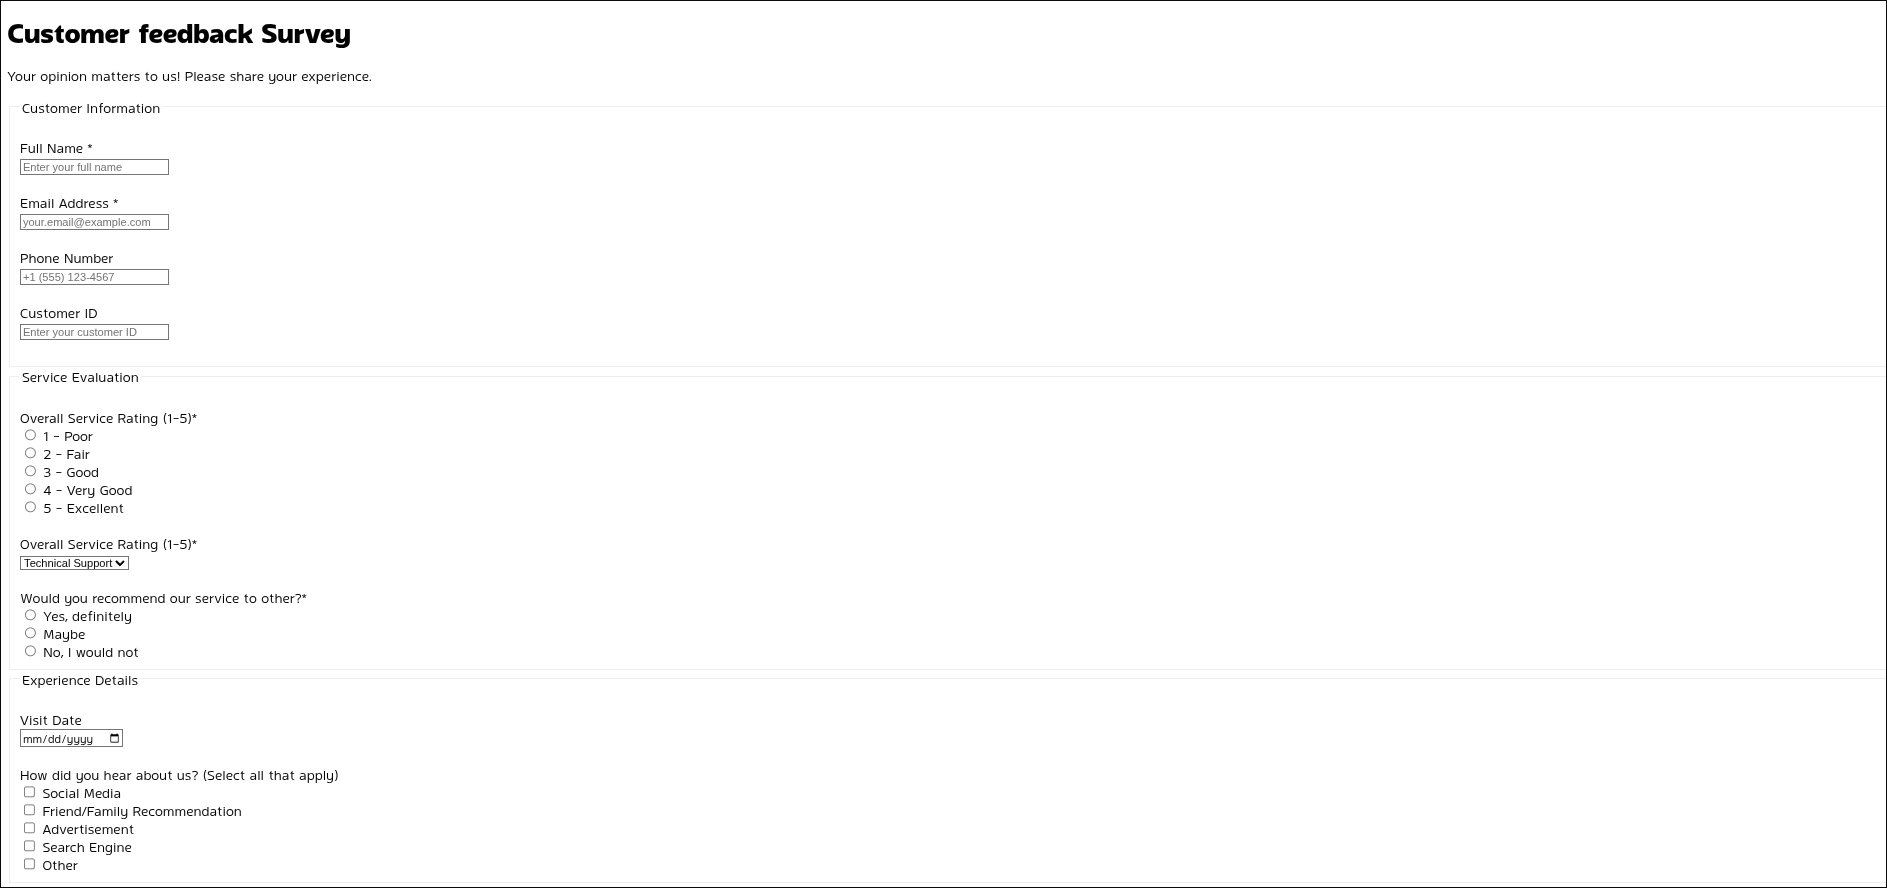
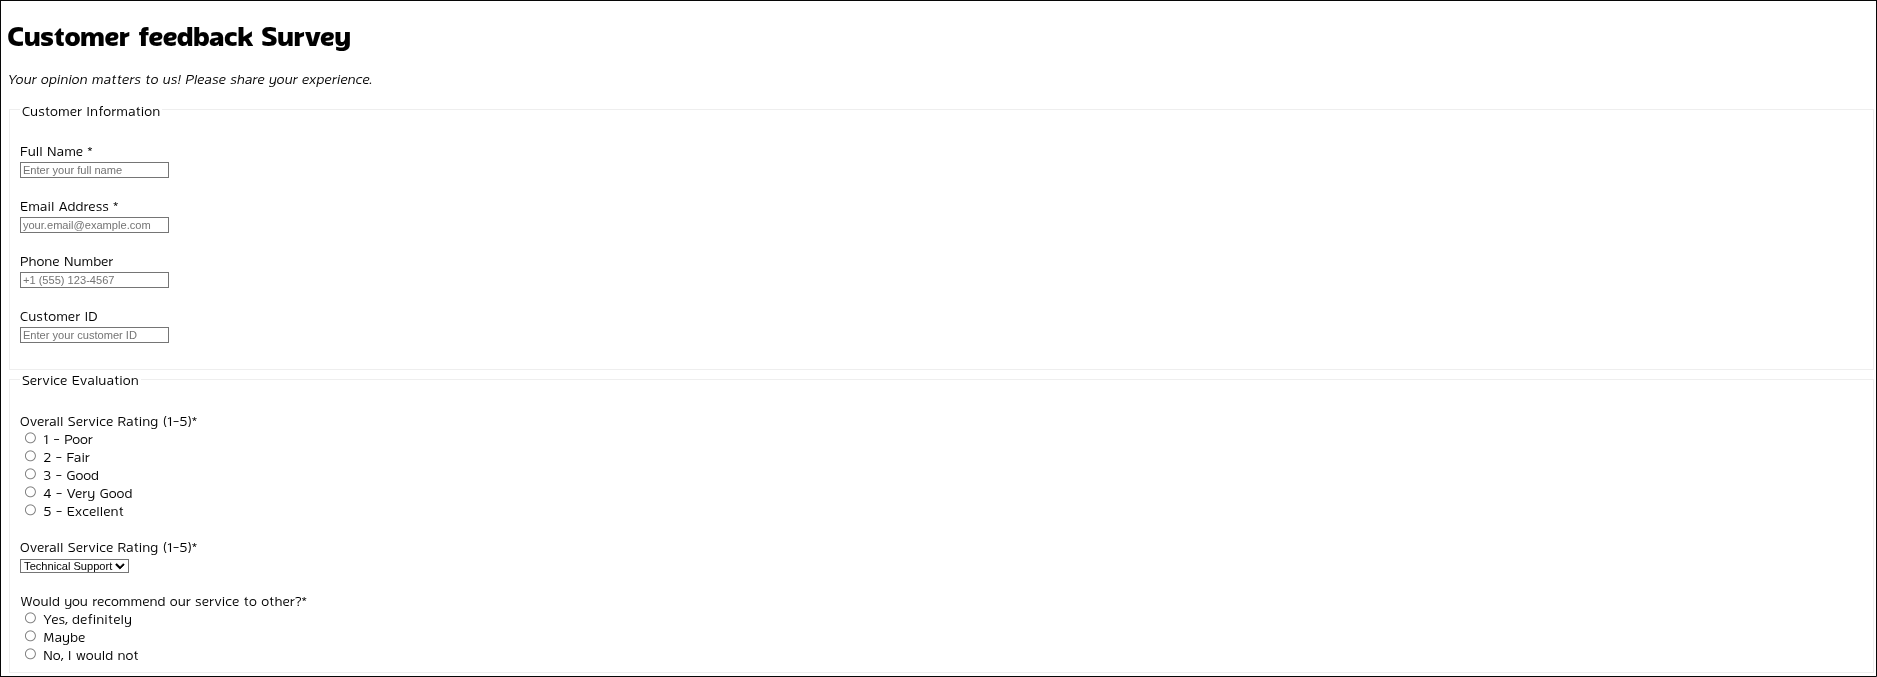
lab1 problem2 update

diff --git a/labs/lab1/customer-feedback.html b/labs/lab1/customer-feedback.html
@@ -6,7 +6,7 @@
 
   <body>
     <h1>Customer feedback Survey</h1>
-    <p>Your opinion matters to us! Please share your experience.</p>
+    <p><em>Your opinion matters to us! Please share your experience.</em></p>
     <fieldset>
       <legend>Customer Information</legend><br>
       <label for="full_name">Full Name *</label><br>
@@ -63,6 +63,7 @@
       
       <label for="service_rating">Overall Service Rating (1-5)*</label><br>
       <select name="service_category" id="service_category" required>
+        <option value="" disabled selected hidden>Select service category</option>
         <option value="Technical support">Technical Support</option>
         <option value="Technical support">Sales</option>
         <option value="Technical support">Billing</option>
@@ -93,10 +94,49 @@
       <input type = "checkbox" id="seach_engine" name="seach_engine"/>
       <label for="seach_engine">Search Engine</label><br>
       <input type = "checkbox" id="other" name="other"/>
-      <label for="other">Other</label><br>
+      <label for="other">Other</label><br><br>
+
+      <label for="comments">Addtional Comments*</label><br>
+      <textarea 
+        maxlength="10" 
+        id="comments" 
+        name="comments "
+        placeholder="Please share your detailed feedback here..." 
+        rows="8" 
+        cols="60"
+        required
+      ></textarea>
+    </fieldset>
+
+    <fieldset>
+      <legend>Contact Preferences</legend><br>
+      <label for="contact">Preferred Contact Method</label><br>
+      <input type="radio" id="contact_email" name="contact" required/>
+      <label for="contact_email">Email</label><br>
+      <input type="radio" id="contact_phone" name="contact" required/>
+      <label for="contact_phone">Phone</label><br>
+      <input type="radio" id="contact_SMS" name="contact" required/>
+      <label for="contact_SMS">SMS</label><br>
+      <input type="radio" id="contact_post" name="contact" required/>
+      <label for="contact_post">Postal Mail</label><br>
+      <input type="radio" id="contact_do_not" name="contact" required/>
+      <label for="contact_do_not">Do not contact me</label><br><br>
+
+      <label for="service_rating">Best time to contact</label><br>
+      <select name="service_category" id="service_category" required>
+        <option value="" disabled selected hidden>Select prefferd time</option>
+        <option value="Technical support">Morning</option>
+        <option value="Technical support">Afternoon</option>
+        <option value="Technical support">Evening</option>
+      </select><br><br>
 
     </fieldset>
 
+    <input type = "checkbox" id="confirm" name="confirm" required/>
+    <label for="confirm">I confirm that all information provided is accurate*</label><br>
+
+    <button>Submit Feedback</button>
+    <button>Clear All Fields</button>
 
   </body>
 